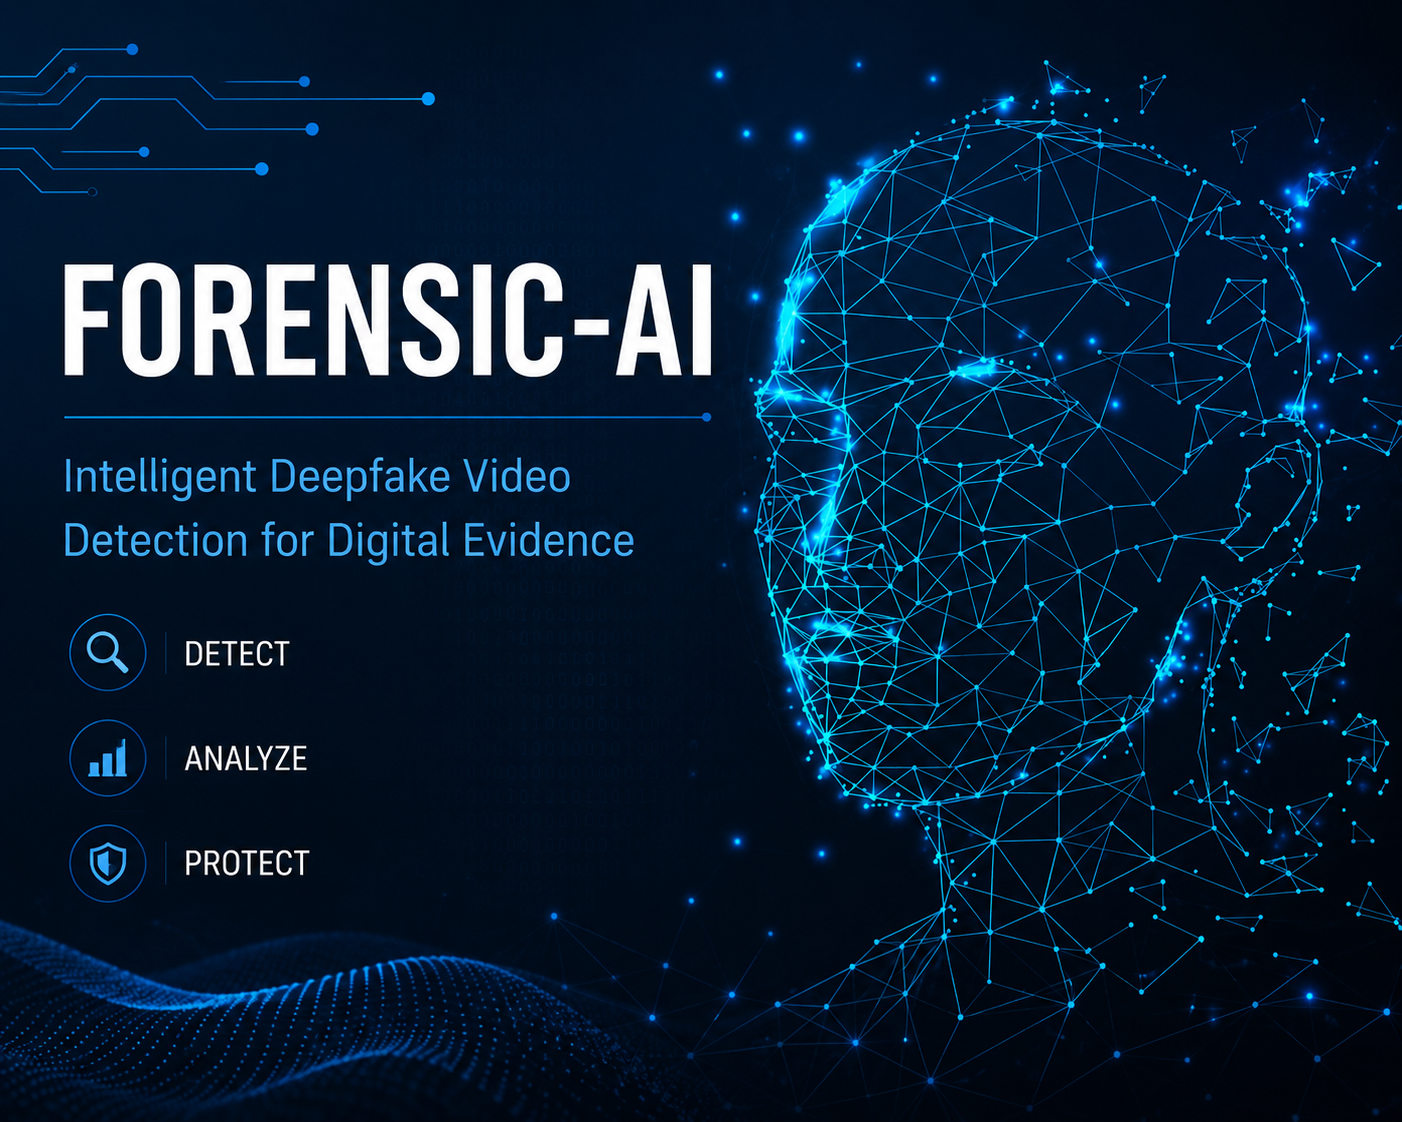
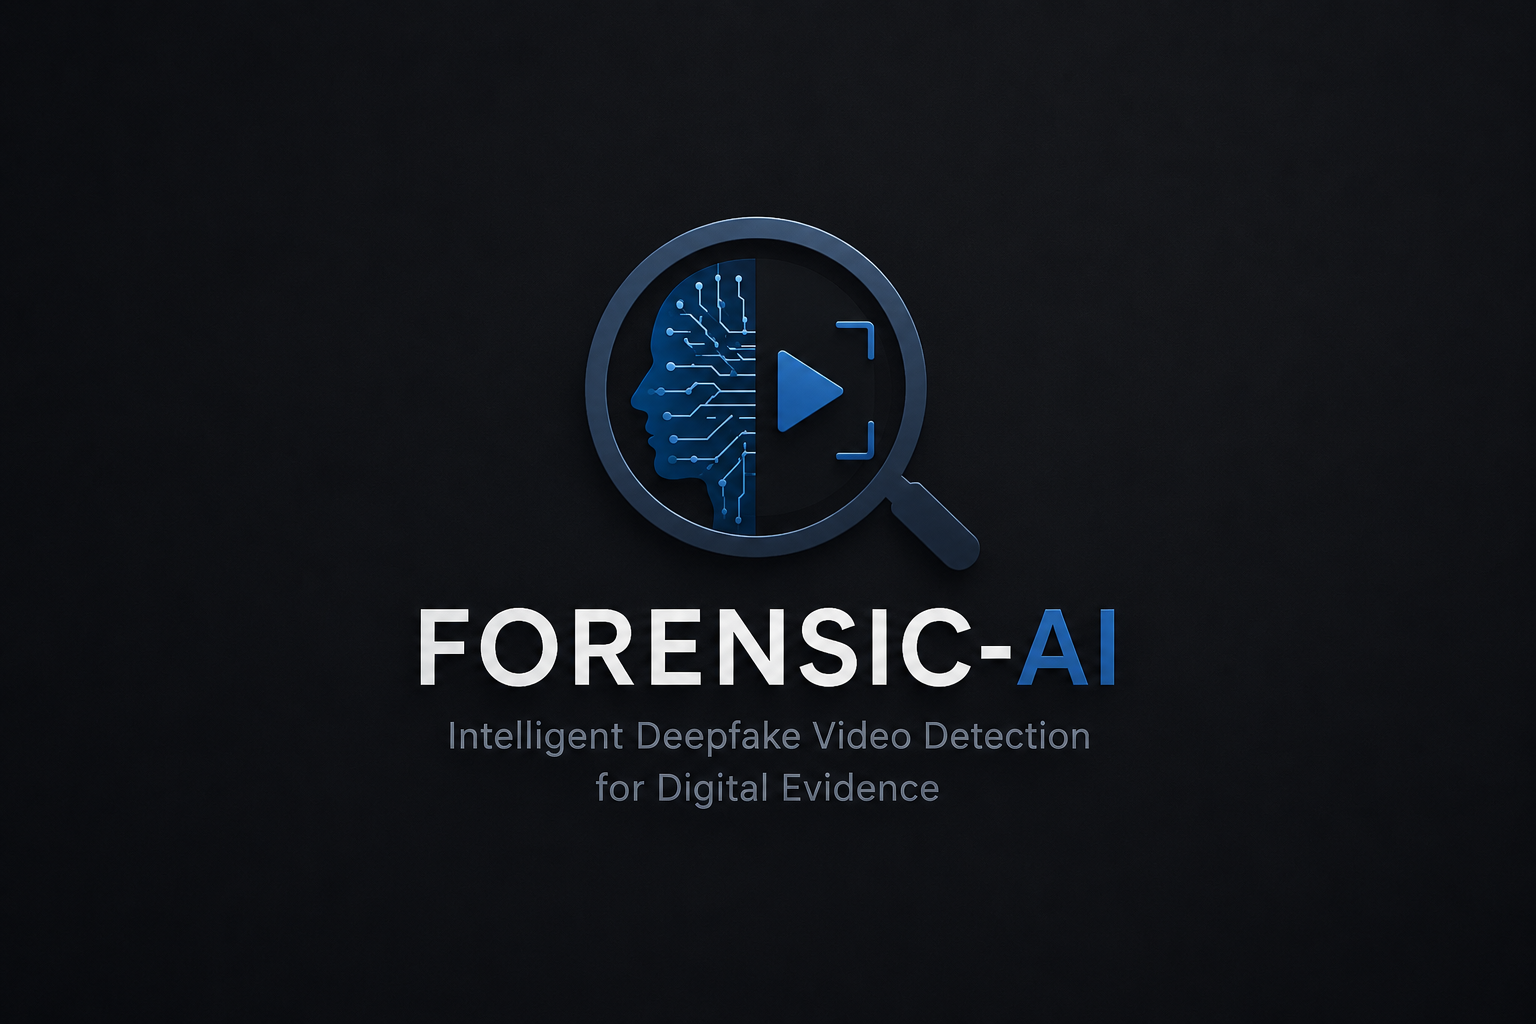
Add preloader to portfolio

diff --git a/src/components/Preloader.tsx b/src/components/Preloader.tsx
@@ -1,0 +1,322 @@
+"use client";
+
+import { useState, useEffect } from "react";
+import { motion, AnimatePresence } from "framer-motion";
+import { Canvas } from "@react-three/fiber";
+import { Stars } from "@react-three/drei";
+
+// Typing effect component for the bottom text
+const TypingText = ({ text, progress }: { text: string; progress: number }) => {
+  const [displayText, setDisplayText] = useState("");
+
+  useEffect(() => {
+    const charsToShow = Math.floor((progress / 100) * text.length);
+    setDisplayText(text.substring(0, charsToShow));
+  }, [progress, text]);
+
+  return (
+    <div className="flex items-center gap-2 mt-8 h-6">
+      <span className="text-[#B8C2CC] text-xs font-mono tracking-widest uppercase shadow-[#00D9FF]/50 drop-shadow-md">
+        {displayText}
+      </span>
+      <motion.div
+        animate={{ opacity: [1, 0] }}
+        transition={{ duration: 0.5, repeat: Infinity, ease: "linear" }}
+        className="w-2 h-3 bg-[#37E8FF] shadow-[0_0_8px_#37E8FF]"
+      />
+    </div>
+  );
+};
+
+export default function Preloader({ onComplete }: { onComplete: () => void }) {
+  const [progress, setProgress] = useState(0);
+  const [stage, setStage] = useState(0);
+
+  useEffect(() => {
+    document.body.style.overflow = "hidden";
+    const t1 = setTimeout(() => setStage(1), 500); // Start showing elements quickly
+    return () => {
+      clearTimeout(t1);
+      document.body.style.overflow = "";
+    };
+  }, []);
+
+  useEffect(() => {
+    let animationFrame: number;
+    let startTime: number;
+    const duration = 4500; // 4.5 seconds loading
+
+    const updateProgress = (timestamp: number) => {
+      if (!startTime) startTime = timestamp;
+      const elapsed = timestamp - startTime;
+
+      if (elapsed >= duration) {
+        setProgress(100);
+        return;
+      }
+
+      const easeOutQuart = 1 - Math.pow(1 - elapsed / duration, 4);
+      setProgress(easeOutQuart * 100);
+
+      animationFrame = requestAnimationFrame(updateProgress);
+    };
+
+    if (stage === 1) {
+      animationFrame = requestAnimationFrame(updateProgress);
+    }
+
+    return () => {
+      if (animationFrame) cancelAnimationFrame(animationFrame);
+    };
+  }, [stage]);
+
+  useEffect(() => {
+    if (progress >= 100) {
+      // 0.8s for the zoom/flash transition before unmounting
+      const t = setTimeout(() => {
+        onComplete();
+      }, 800);
+      return () => clearTimeout(t);
+    }
+  }, [progress, onComplete]);
+
+  const isComplete = progress >= 100;
+
+  return (
+    <motion.div
+      className="fixed inset-0 z-[9999] flex flex-col items-center justify-center bg-[#020611] overflow-hidden"
+      initial={{ opacity: 1 }}
+      animate={isComplete ? { scale: 1.1, filter: "blur(10px)", opacity: 0 } : { scale: 1, filter: "blur(0px)", opacity: 1 }}
+      transition={{ duration: 0.8, ease: "easeInOut" }}
+    >
+      {/* SVG Noise Filter Definition */}
+      <svg className="hidden">
+        <filter id="noise">
+          <feTurbulence type="fractalNoise" baseFrequency="0.6" numOctaves="3" stitchTiles="stitch" />
+          <feColorMatrix type="matrix" values="1 0 0 0 0, 0 1 0 0 0, 0 0 1 0 0, 0 0 0 0.05 0" />
+        </filter>
+      </svg>
+
+      {/* Background Layers */}
+      <div className="absolute inset-0 z-0 bg-gradient-to-b from-[#020611] via-[#040A18] to-[#071326]" />
+
+      {/* Noise Overlay */}
+      <div className="absolute inset-0 z-0 opacity-10 mix-blend-screen pointer-events-none" style={{ filter: "url(#noise)" }} />
+
+      {/* Volumetric Fog / Radial Glows */}
+      <div className="absolute inset-0 z-0 pointer-events-none overflow-hidden mix-blend-screen">
+        <motion.div
+          animate={{ x: ["-10%", "10%", "-10%"], y: ["-10%", "10%", "-10%"] }}
+          transition={{ duration: 15, repeat: Infinity, ease: "easeInOut" }}
+          className="absolute top-[-20%] left-[-10%] w-[60%] h-[60%] rounded-full bg-[#00D9FF] opacity-[0.03] blur-[100px]"
+        />
+        <motion.div
+          animate={{ x: ["10%", "-10%", "10%"], y: ["10%", "-10%", "10%"] }}
+          transition={{ duration: 18, repeat: Infinity, ease: "easeInOut" }}
+          className="absolute bottom-[-20%] right-[-10%] w-[60%] h-[60%] rounded-full bg-[#6366F1] opacity-[0.03] blur-[120px]"
+        />
+      </div>
+
+      {/* Animated Cyber Grid */}
+      <div className="absolute inset-0 z-0 pointer-events-none opacity-[0.03] mix-blend-screen [mask-image:linear-gradient(to_bottom,transparent,black_60%,transparent)] flex items-center justify-center overflow-hidden">
+        <motion.div
+          animate={{ backgroundPosition: ["0px 0px", "0px 60px"] }}
+          transition={{ duration: 2.5, repeat: Infinity, ease: "linear" }}
+          className="absolute w-[200vw] h-[200vh] bg-[linear-gradient(to_right,#00D9FF_1px,transparent_1px),linear-gradient(to_bottom,#00D9FF_1px,transparent_1px)] bg-[size:60px_60px]"
+          style={{ transform: "perspective(500px) rotateX(60deg) translateZ(0)" }}
+        />
+      </div>
+
+      {/* Global HUD Scanline */}
+      <motion.div
+        animate={{ top: ["-20%", "120%"] }}
+        transition={{ duration: 4, repeat: Infinity, ease: "linear" }}
+        className="absolute left-0 w-full h-[30vh] bg-gradient-to-b from-transparent via-[#00D9FF]/[0.05] to-transparent pointer-events-none z-10 border-b border-[#00D9FF]/10"
+      />
+
+      {/* Animated Light Rays from Top Corners */}
+      <div className="absolute top-0 left-0 w-full h-full pointer-events-none z-0 overflow-hidden">
+        <motion.div
+          animate={{ rotate: [-2, 5, -2] }}
+          transition={{ duration: 8, repeat: Infinity, ease: "easeInOut" }}
+          className="absolute top-[-50%] left-[-20%] w-[150%] h-[150%] bg-[conic-gradient(from_180deg_at_0%_0%,rgba(0,217,255,0.08)_0deg,transparent_60deg)] mix-blend-screen origin-top-left"
+        />
+        <motion.div
+          animate={{ rotate: [2, -5, 2] }}
+          transition={{ duration: 10, repeat: Infinity, ease: "easeInOut" }}
+          className="absolute top-[-50%] right-[-20%] w-[150%] h-[150%] bg-[conic-gradient(from_180deg_at_100%_0%,transparent_300deg,rgba(55,232,255,0.08)_360deg)] mix-blend-screen origin-top-right"
+        />
+      </div>
+
+      {/* Starfield / Glowing Dust */}
+      <div className="absolute inset-0 z-0 opacity-40 mix-blend-screen">
+        <Canvas>
+          <Stars radius={100} depth={50} count={3000} factor={3} saturation={0.5} fade speed={1.5} />
+        </Canvas>
+      </div>
+
+      {/* TOP HUD ELEMENTS */}
+      <AnimatePresence>
+        {!isComplete && (
+          <>
+            {/* Top Left */}
+            <motion.div
+              initial={{ opacity: 0, x: -20 }}
+              animate={{ opacity: 1, x: 0 }}
+              exit={{ opacity: 0, x: -20 }}
+              className="absolute top-6 left-6 md:top-10 md:left-10 flex items-center gap-4 z-50"
+            >
+              <motion.div
+                animate={{ opacity: [1, 0.2, 1] }}
+                transition={{ duration: 1.5, repeat: Infinity, ease: "linear" }}
+                className="w-1.5 h-1.5 rounded-full bg-[#37E8FF] shadow-[0_0_8px_#37E8FF]"
+              />
+              <span className="text-[#B8C2CC] text-[10px] md:text-xs font-mono tracking-[0.3em]">WELCOME</span>
+              <motion.div
+                initial={{ scaleX: 0 }}
+                animate={{ scaleX: 1 }}
+                transition={{ duration: 1.5, ease: "easeOut", delay: 0.5 }}
+                className="w-16 md:w-32 h-[1px] bg-gradient-to-r from-[#37E8FF]/40 to-transparent origin-left"
+              />
+            </motion.div>
+
+            {/* Top Right */}
+            <motion.div
+              initial={{ opacity: 0, x: 20 }}
+              animate={{ opacity: 1, x: 0 }}
+              exit={{ opacity: 0, x: 20 }}
+              className="absolute top-6 right-6 md:top-10 md:right-10 flex flex-col items-end gap-2 z-50"
+            >
+              <span className="text-[#37E8FF] text-[8px] md:text-[10px] font-mono tracking-[0.2em] uppercase opacity-80">
+                Preparing Experience
+              </span>
+              <div className="flex gap-1">
+                {[0, 1, 2].map((i) => (
+                  <motion.div
+                    key={i}
+                    animate={{ opacity: [0.3, 1, 0.3] }}
+                    transition={{ duration: 1, delay: i * 0.2, repeat: Infinity }}
+                    className="w-3 h-1 bg-[#6366F1]"
+                  />
+                ))}
+              </div>
+            </motion.div>
+          </>
+        )}
+      </AnimatePresence>
+
+      {/* Blue Flash Transition */}
+      <AnimatePresence>
+        {isComplete && (
+          <motion.div
+            initial={{ opacity: 0 }}
+            animate={{ opacity: 1 }}
+            exit={{ opacity: 0 }}
+            transition={{ duration: 0.4 }}
+            className="absolute inset-0 bg-[#00D9FF] z-[99999] mix-blend-overlay"
+          />
+        )}
+      </AnimatePresence>
+
+      {/* CENTER CONTENT */}
+      <div className="relative z-10 flex flex-col items-center justify-center w-full px-6">
+
+        {/* Animated Logo Container */}
+        <motion.div
+          animate={isComplete ? { scale: 1.5, opacity: 0 } : { scale: 1, opacity: 1 }}
+          transition={{ duration: 0.8, ease: "easeInOut" }}
+          className="relative flex items-center justify-center mb-8 w-32 h-32"
+        >
+          {/* Background Breathing Glow */}
+          <motion.div
+            animate={{ opacity: [0.15, 0.3, 0.15], scale: [1, 1.1, 1] }}
+            transition={{ duration: 3, repeat: Infinity, ease: "easeInOut" }}
+            className="absolute inset-0 bg-[#00D9FF] blur-[40px] rounded-full z-0"
+          />
+
+          {/* Metallic "T" */}
+          <div className="relative z-10 flex items-center justify-center w-full h-full overflow-hidden">
+            <span
+              className="text-[9rem] md:text-[11rem] font-serif leading-none"
+              style={{
+                background: "linear-gradient(to bottom, #ffffff 0%, #c4f0ff 40%, #4facfe 70%, #3b28f6 100%)",
+                WebkitBackgroundClip: "text",
+                WebkitTextFillColor: "transparent",
+                filter: "drop-shadow(0 0 25px rgba(0, 217, 255, 0.4))",
+              }}
+            >
+              T
+            </span>
+
+            {/* Premium Neon Scanline */}
+            <motion.div
+              animate={{ top: ["-50%", "150%"], left: ["-50%", "150%"] }}
+              transition={{ duration: 2.5, repeat: Infinity, ease: "linear" }}
+              className="absolute w-[150%] h-[2px] bg-gradient-to-r from-transparent via-white to-transparent shadow-[0_0_15px_3px_rgba(0,217,255,1),0_0_30px_6px_rgba(55,232,255,0.8)] -rotate-45 z-20"
+            />
+          </div>
+        </motion.div>
+
+        {/* Name and Tagline */}
+        <AnimatePresence>
+          {!isComplete && stage >= 1 && (
+            <motion.div
+              initial={{ opacity: 0, y: 20 }}
+              animate={{ opacity: 1, y: 0 }}
+              exit={{ opacity: 0, y: -20 }}
+              transition={{ duration: 0.8, ease: "easeOut" }}
+              className="flex flex-col items-center"
+            >
+              {/* Name */}
+              <div className="flex gap-4 md:gap-6 mb-4">
+                <span className="text-2xl md:text-4xl font-semibold tracking-[0.5em] text-white">
+                  THARUN
+                </span>
+                <span className="text-2xl md:text-4xl font-semibold tracking-[0.5em] text-[#00D9FF] drop-shadow-[0_0_10px_rgba(0,217,255,0.6)]">
+                  SAI
+                </span>
+              </div>
+
+              {/* Tagline */}
+              <h2 className="mb-12 text-[9px] md:text-[10px] font-medium tracking-[0.6em] text-[#B8C2CC] uppercase text-center drop-shadow-md">
+                CYBERSECURITY <span className="text-[#6366F1] mx-1">•</span> AI <span className="text-[#6366F1] mx-1">•</span> DIGITAL INNOVATION
+              </h2>
+
+              {/* Progress Container */}
+              <div className="flex flex-col items-center w-full max-w-[280px] gap-6">
+
+                {/* Premium Glass Loading Bar */}
+                <div className="w-full h-[3px] md:h-1 bg-white/5 rounded-full overflow-hidden relative backdrop-blur-md border border-white/10 shadow-[0_0_15px_rgba(0,217,255,0.1)]">
+                  <motion.div
+                    className="absolute top-0 left-0 h-full bg-gradient-to-r from-[#00D9FF] via-[#37E8FF] to-[#6366F1] shadow-[0_0_10px_rgba(55,232,255,0.5)]"
+                    style={{ width: `${progress}%` }}
+                  />
+                  {/* Internal Shimmer */}
+                  <motion.div
+                    animate={{ x: ["-100%", "300%"] }}
+                    transition={{ duration: 1.5, repeat: Infinity, ease: "linear" }}
+                    className="absolute top-0 left-0 w-1/3 h-full bg-gradient-to-r from-transparent via-white/40 to-transparent skew-x-12"
+                  />
+                  {/* Tip Particle */}
+                  <motion.div
+                    className="absolute top-1/2 -translate-y-1/2 h-[6px] w-[6px] md:h-[8px] md:w-[8px] rounded-full bg-white shadow-[0_0_12px_3px_rgba(255,255,255,0.9)]"
+                    style={{ left: `calc(${progress}% - 4px)` }}
+                  />
+                </div>
+
+                {/* Percentage Counter */}
+                <div className="text-4xl md:text-5xl font-mono text-white font-light tracking-widest drop-shadow-[0_0_15px_rgba(255,255,255,0.3)]">
+                  {Math.round(progress)}
+                  <span className="text-2xl md:text-3xl text-[#00D9FF] ml-1 drop-shadow-[0_0_10px_rgba(0,217,255,0.5)]">%</span>
+                </div>
+
+                {/* Bottom Typing Text */}
+                <TypingText text="Initializing Secure Environment..." progress={progress} />
+              </div>
+            </motion.div>
+          )}
+        </AnimatePresence>
+      </div>
+    </motion.div>
+  );
+}

diff --git a/src/components/PageWrapper.tsx b/src/components/PageWrapper.tsx
@@ -1,0 +1,29 @@
+"use client";
+
+import { useState, useEffect } from "react";
+import { AnimatePresence, motion } from "framer-motion";
+import Preloader from "./Preloader";
+
+export default function PageWrapper({ children }: { children: React.ReactNode }) {
+  const [isLoading, setIsLoading] = useState(true);
+
+  return (
+    <>
+      <AnimatePresence>
+        {isLoading && <Preloader onComplete={() => setIsLoading(false)} />}
+      </AnimatePresence>
+      
+      {/* Only mount children after loading to perfectly sync all entrance animations */}
+      {!isLoading && (
+        <motion.div
+          initial={{ opacity: 0, y: 40 }}
+          animate={{ opacity: 1, y: 0 }}
+          transition={{ duration: 1, ease: [0.22, 1, 0.36, 1] }}
+          className="w-full min-h-screen flex flex-col"
+        >
+          {children}
+        </motion.div>
+      )}
+    </>
+  );
+}

diff --git a/src/app/layout.tsx b/src/app/layout.tsx
@@ -4,6 +4,7 @@ import "./globals.css";
 import CustomCursor from "@/components/CustomCursor";
 import SmoothScrolling from "@/components/SmoothScrolling";
 import SnowfallBackground from "@/components/SnowfallBackground";
+import PageWrapper from "@/components/PageWrapper";
 
 const inter = Inter({
   variable: "--font-inter",
@@ -39,7 +40,9 @@ export default function RootLayout({
         <SmoothScrolling>
           <SnowfallBackground />
           <CustomCursor />
-          {children}
+          <PageWrapper>
+            {children}
+          </PageWrapper>
         </SmoothScrolling>
       </body>
     </html>

diff --git a/src/components/sections/Hero.tsx b/src/components/sections/Hero.tsx
@@ -258,7 +258,7 @@ export default function Hero() {
             Cybersecurity
           </motion.h1>
           <h3 className="text-2xl sm:text-3xl text-text-secondary font-semibold mb-6 h-10 flex justify-center lg:justify-start items-center">
-            <TypewriterText text="B.Tech CSE (Cyber Security)" delay={1.5} />
+            <TypewriterText text="B.Tech CSE" delay={1.5} />
           </h3>
 
           <motion.div

diff --git a/src/components/sections/Projects.tsx b/src/components/sections/Projects.tsx
@@ -44,7 +44,7 @@ const projects: Project[] = [
     githubUrl: "https://github.com",
     liveUrl: "",
     status: "Completed",
-    image: "https://images.unsplash.com/photo-1550751827-4bd374c3f58b?q=80&w=2070&auto=format&fit=crop"
+    image: "/agentic.png"
   },
   {
     title: "FORENSIC-AI: Intelligent Deepfake Video Detection for Digital Evidence",